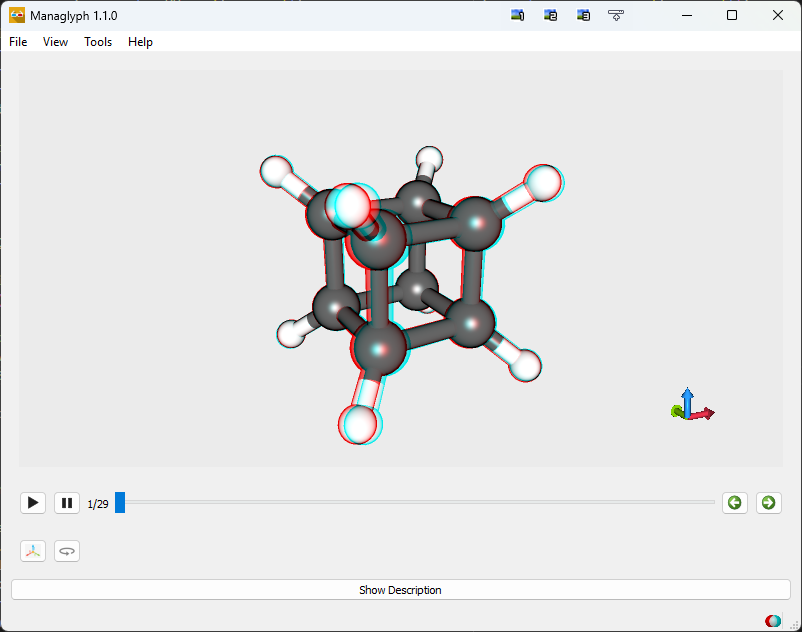
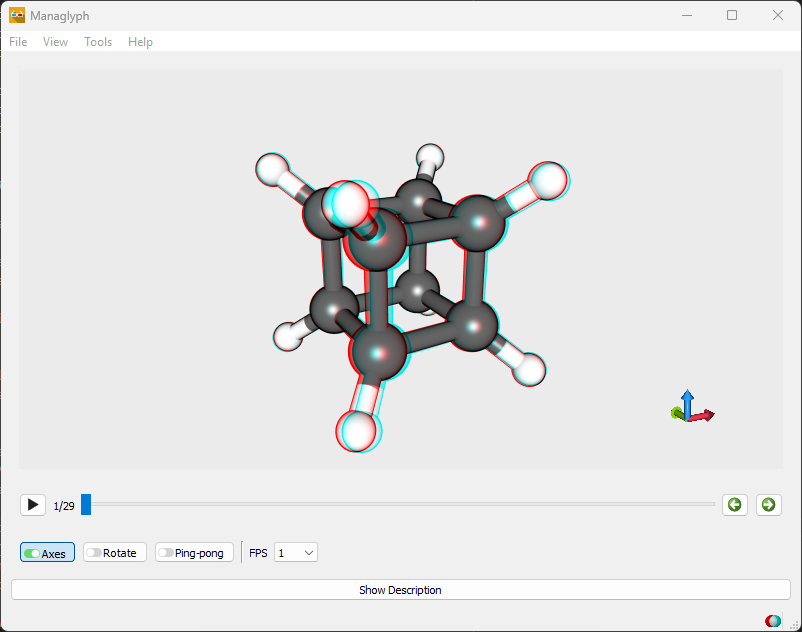
Removing version name from Windows title and updating screenshots

diff --git a/src/gui/mainwindow.cpp b/src/gui/mainwindow.cpp
@@ -200,6 +200,7 @@ MainWindow::MainWindow(const std::shared_ptr<QStringList> _log_messages,
 
     // add actions to help menu
     menu_help->addAction(action_about);
+    action_about->setShortcut(Qt::Key_F1);
 
     // connect actions file menu
     connect(action_open, &QAction::triggered, this, &MainWindow::open);
@@ -257,7 +258,6 @@ MainWindow::MainWindow(const std::shared_ptr<QStringList> _log_messages,
     setAcceptDrops(true);
 
     // set Window properties
-    this->setWindowTitle(QString(PROGRAM_NAME));
     this->resize(800,600);
 
     qDebug() << "Done building MainWindow";
@@ -532,6 +532,11 @@ void MainWindow::about() {
         "<b>License</b><br>"
         PROGRAM_NAME " is free software released under the "
         "GNU General Public License v3.0 (GPL-3.0).<br><br>"
+
+        "<b>Repository</b>: "
+        "<a href='https://github.com/ifilot/managlyph'>"
+        "github.com/ifilot/managlyph"
+        "</a><br><br>"
 
         "This software uses the Qt framework, which is available under the "
         "GNU Lesser General Public License v3.0 (LGPL-3.0).<br><br>"

diff --git a/src/main.cpp b/src/main.cpp
@@ -110,7 +110,7 @@ int main(int argc, char *argv[]) {
         // build main window
         qInstallMessageHandler(message_output);
         mainWindow = std::make_unique<MainWindow>(log_messages);
-        mainWindow->setWindowTitle(QString(PROGRAM_NAME) + " " + QString(PROGRAM_VERSION));
+        mainWindow->setWindowTitle(QString(PROGRAM_NAME));
         mainWindow->set_cli_parser(parser);
     } catch(const std::exception& e) {
         std::cerr << "Error detected!" << std::endl;
